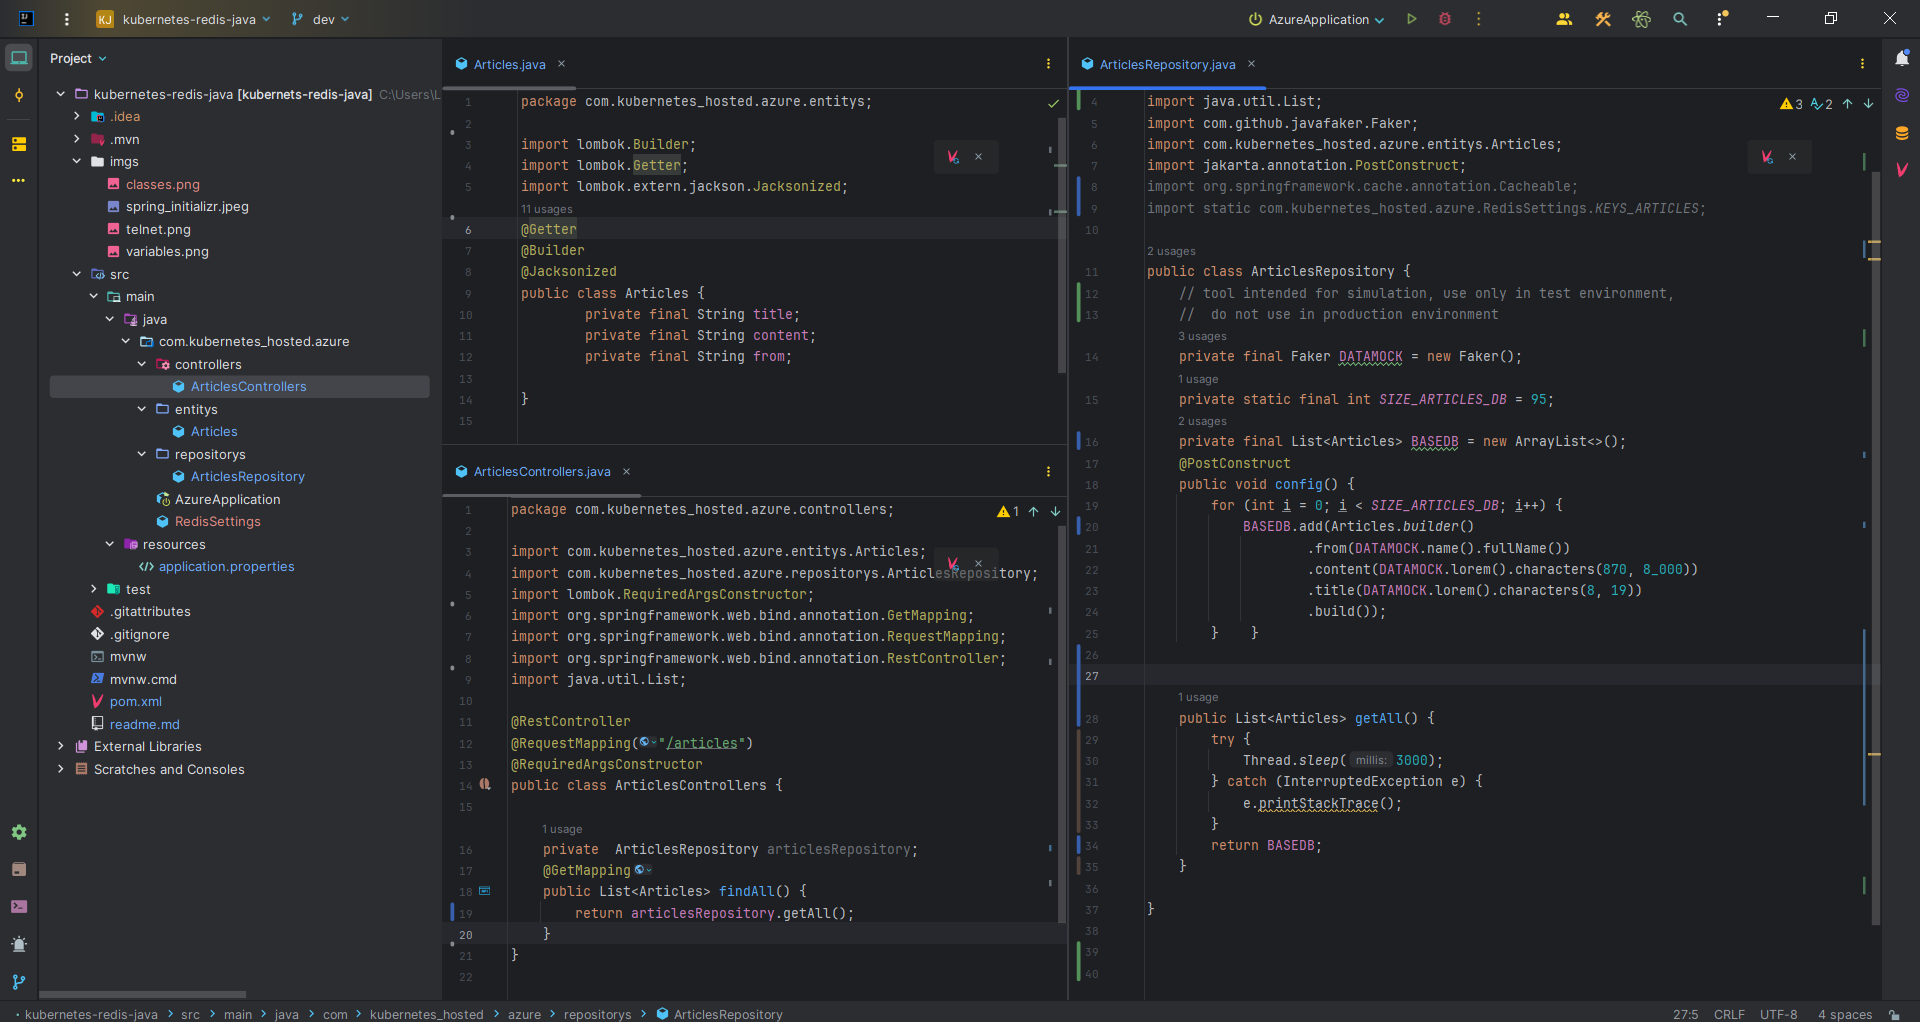
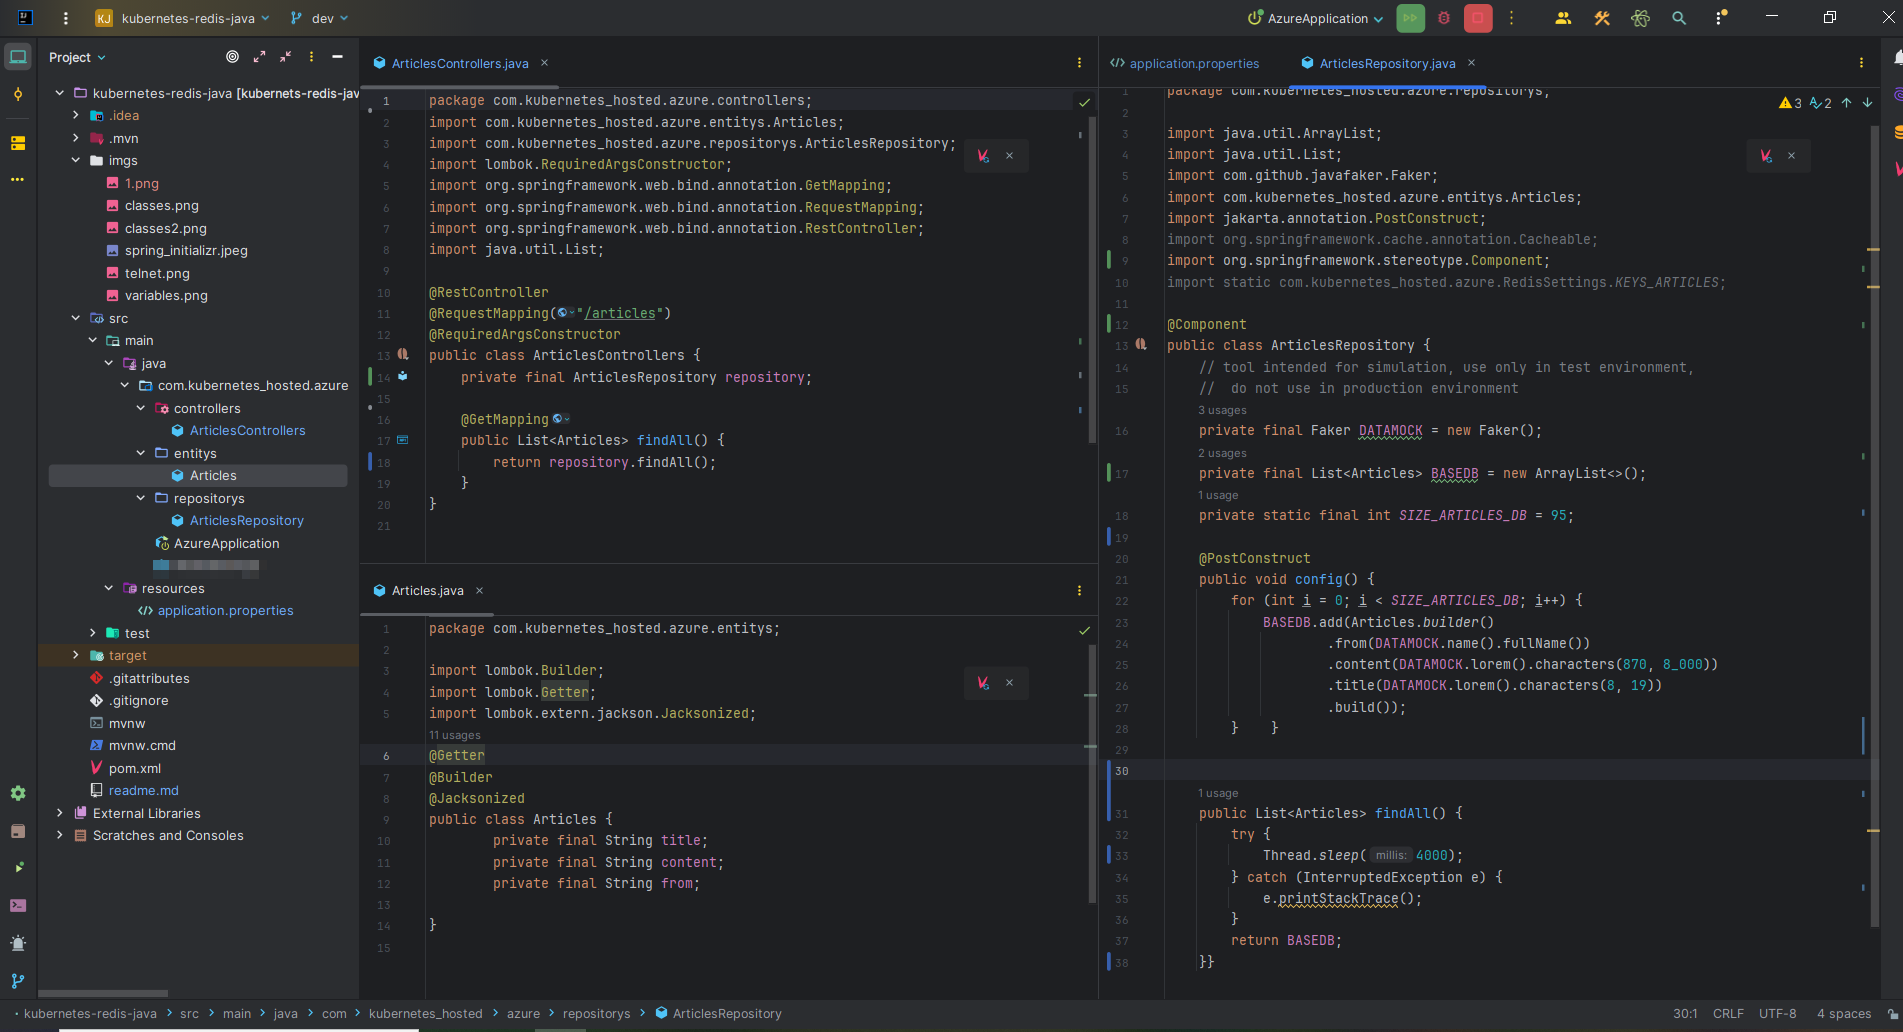
redis velocity

diff --git a/src/main/java/com/kubernetes_hosted/azure/repositorys/ArticlesRepository.java b/src/main/java/com/kubernetes_hosted/azure/repositorys/ArticlesRepository.java
@@ -6,14 +6,17 @@ import com.github.javafaker.Faker;
 import com.kubernetes_hosted.azure.entitys.Articles;
 import jakarta.annotation.PostConstruct;
 import org.springframework.cache.annotation.Cacheable;
+import org.springframework.stereotype.Component;
 import static com.kubernetes_hosted.azure.RedisSettings.KEYS_ARTICLES;
 
+@Component
 public class ArticlesRepository {
     // tool intended for simulation, use only in test environment,
     //  do not use in production environment
     private final Faker DATAMOCK = new Faker();
-    private static final int SIZE_ARTICLES_DB = 95;
     private final List<Articles> BASEDB = new ArrayList<>();
+    private static final int SIZE_ARTICLES_DB = 95;
+
     @PostConstruct
     public void config() {
         for (int i = 0; i < SIZE_ARTICLES_DB; i++) {
@@ -25,15 +28,11 @@ public class ArticlesRepository {
         }    }
 
     @Cacheable(value = KEYS_ARTICLES)
-    public List<Articles> getAll() {
+    public List<Articles> findAll() {
         try {
-            Thread.sleep(3000);
+            Thread.sleep(4000);
         } catch (InterruptedException e) {
             e.printStackTrace();
         }
         return BASEDB;
-    }
-
-}
-
-
+    }}

diff --git a/src/main/java/com/kubernetes_hosted/azure/controllers/ArticlesControllers.java b/src/main/java/com/kubernetes_hosted/azure/controllers/ArticlesControllers.java
@@ -1,5 +1,4 @@
 package com.kubernetes_hosted.azure.controllers;
-
 import com.kubernetes_hosted.azure.entitys.Articles;
 import com.kubernetes_hosted.azure.repositorys.ArticlesRepository;
 import lombok.RequiredArgsConstructor;
@@ -12,10 +11,10 @@ import java.util.List;
 @RequestMapping("/articles")
 @RequiredArgsConstructor
 public class ArticlesControllers {
+    private final ArticlesRepository repository;
 
-    private  ArticlesRepository articlesRepository;
     @GetMapping
     public List<Articles> findAll() {
-        return articlesRepository.getAll();
+        return repository.findAll();
     }
 }

diff --git a/readme.md b/readme.md
@@ -19,6 +19,8 @@
         + [Connection betwen Spring and Redis](#connection-betwen-spring-and-redis)
         + [Create a Redis class in the Java application](#create-a-redis-class-in-the-java-application)
         + [Cache enable](#cache-enable)
+        + [Results](#results)
+- [TO DO - Deploy in Azure Kubernetes](#to-do---deploy-in-azure-kubernetes)
 
 
 
@@ -89,7 +91,13 @@ telnet localhost 6379
 ### Connection betwen Spring and Redis
 Set environment variables:
 
-![env](imgs/variables.png)
+Set TTL in the application.properties
+
+```properties
+spring.application.name=azure
+spring.data.redis.host=localhost
+spring.data.redis.port=6379
+```
 
 ### Create a Redis class in the Java application
 
@@ -126,13 +134,13 @@ public class RedisSettings{
 }
 ```
 
-Set TTL in the application.properties
+Set TTL in the application.properties 
 
 ```properties
 spring.application.name=azure
-spring.data.redis.host=${spring.data.redis.host}
-spring.data.redis.port=${spring.data.redis.port}
-# refresh cache in 70000ms
+spring.data.redis.host=localhost
+spring.data.redis.port=6379
+# clear cache in 70000ms
 cache.ms.ttl=70000
 ```
 
@@ -151,13 +159,17 @@ import com.github.javafaker.Faker;
 import com.kubernetes_hosted.azure.entitys.Articles;
 import jakarta.annotation.PostConstruct;
 import org.springframework.cache.annotation.Cacheable;
+import org.springframework.stereotype.Component;
 import static com.kubernetes_hosted.azure.RedisSettings.KEYS_ARTICLES;
 
+@Component
 public class ArticlesRepository {
-    // tool intended for simulation, use only in test environment, do not use in production environment
+    // tool intended for simulation, use only in test environment,
+    //  do not use in production environment
     private final Faker DATAMOCK = new Faker();
-    private static final int SIZE_ARTICLES_DB = 95;
     private final List<Articles> BASEDB = new ArrayList<>();
+    private static final int SIZE_ARTICLES_DB = 95;
+
     @PostConstruct
     public void config() {
         for (int i = 0; i < SIZE_ARTICLES_DB; i++) {
@@ -168,20 +180,31 @@ public class ArticlesRepository {
                     .build());
         }    }
 
-    // CHANGED ----------------------------------
     @Cacheable(value = KEYS_ARTICLES)
-    public List<Articles> getAll() {
+    public List<Articles> findAll() {
         try {
-            Thread.sleep(3000);
+            Thread.sleep(4000);
         } catch (InterruptedException e) {
             e.printStackTrace();
         }
         return BASEDB;
     }
-
 }
-
-
-
-
 ```
+### Results
+
+Using postman, test the localhost:8080 endpoint several times.
+
+Note that the time will decrease with each HTTP GET request, this is only possible due to cache memory.
+
+I hope this documentation is useful! 😄
+
+![Redis](imgs/1.png)
+
+![Redis](imgs/2.png)
+
+![Redis](imgs/3.png)
+
+### TO DO - Deploy in Azure Kubernetes
+
+The Kubernetes part will still be done in these days, after this commit.😴
